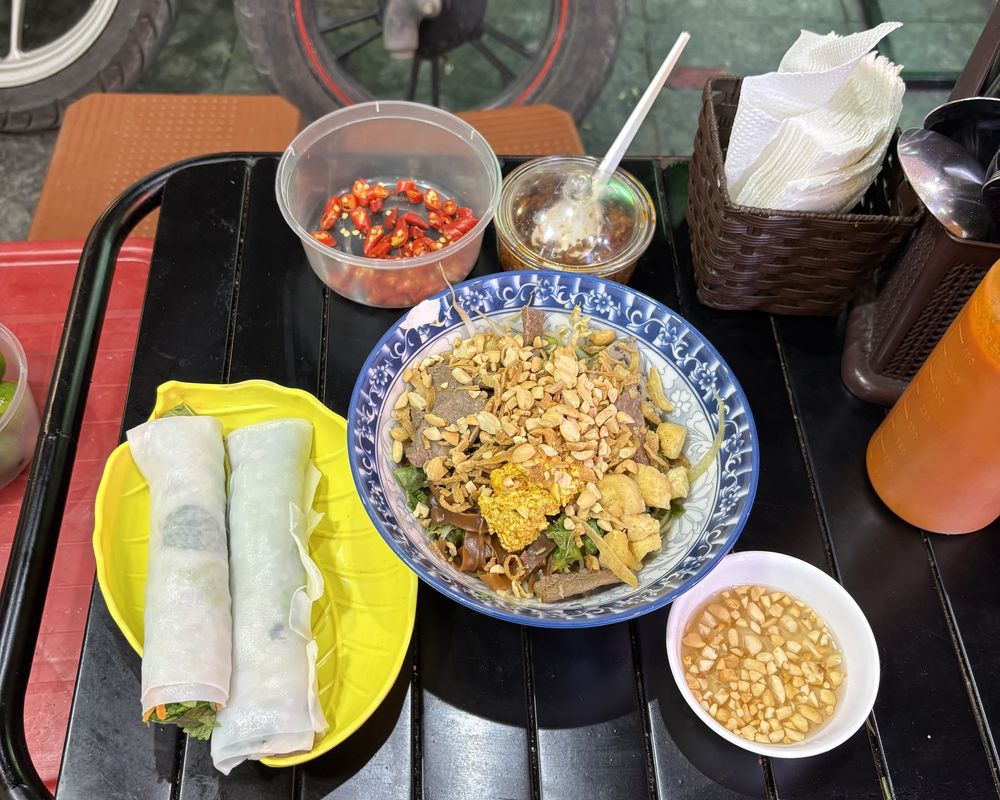
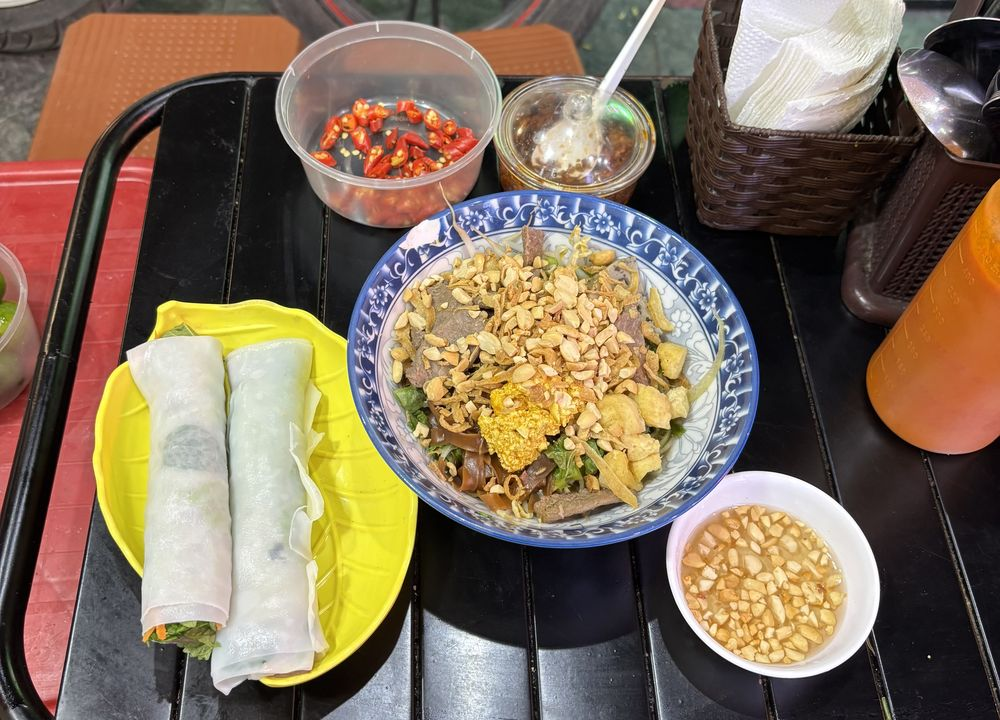
Crop market photo at the bottom and street food photo at the top

diff --git a/index.html b/index.html
@@ -101,7 +101,7 @@
       </figure>
 
       <figure class="insp-item reveal">
-        <img src="/images/inspiration/img-17.jpg" width="1000" height="750" alt="Indoor market hall with stacks of green vegetables and shoppers in the background" loading="lazy">
+        <img src="/images/inspiration/img-17.jpg?v=2" width="1000" height="680" alt="Indoor market hall with stacks of green vegetables and shoppers in the background" loading="lazy">
         <span class="insp-cat">foodmarket (chiang mai)</span>
       </figure>
 
@@ -111,7 +111,7 @@
       </figure>
 
       <figure class="insp-item reveal">
-        <img src="/images/inspiration/img-03.jpg" width="1000" height="800" alt="Street food tray with spring rolls and a noodle bowl topped with peanuts" loading="lazy">
+        <img src="/images/inspiration/img-03.jpg?v=2" width="1000" height="720" alt="Street food tray with spring rolls and a noodle bowl topped with peanuts" loading="lazy">
         <span class="insp-cat">chay tam khoi (hanoi)</span>
       </figure>
 
